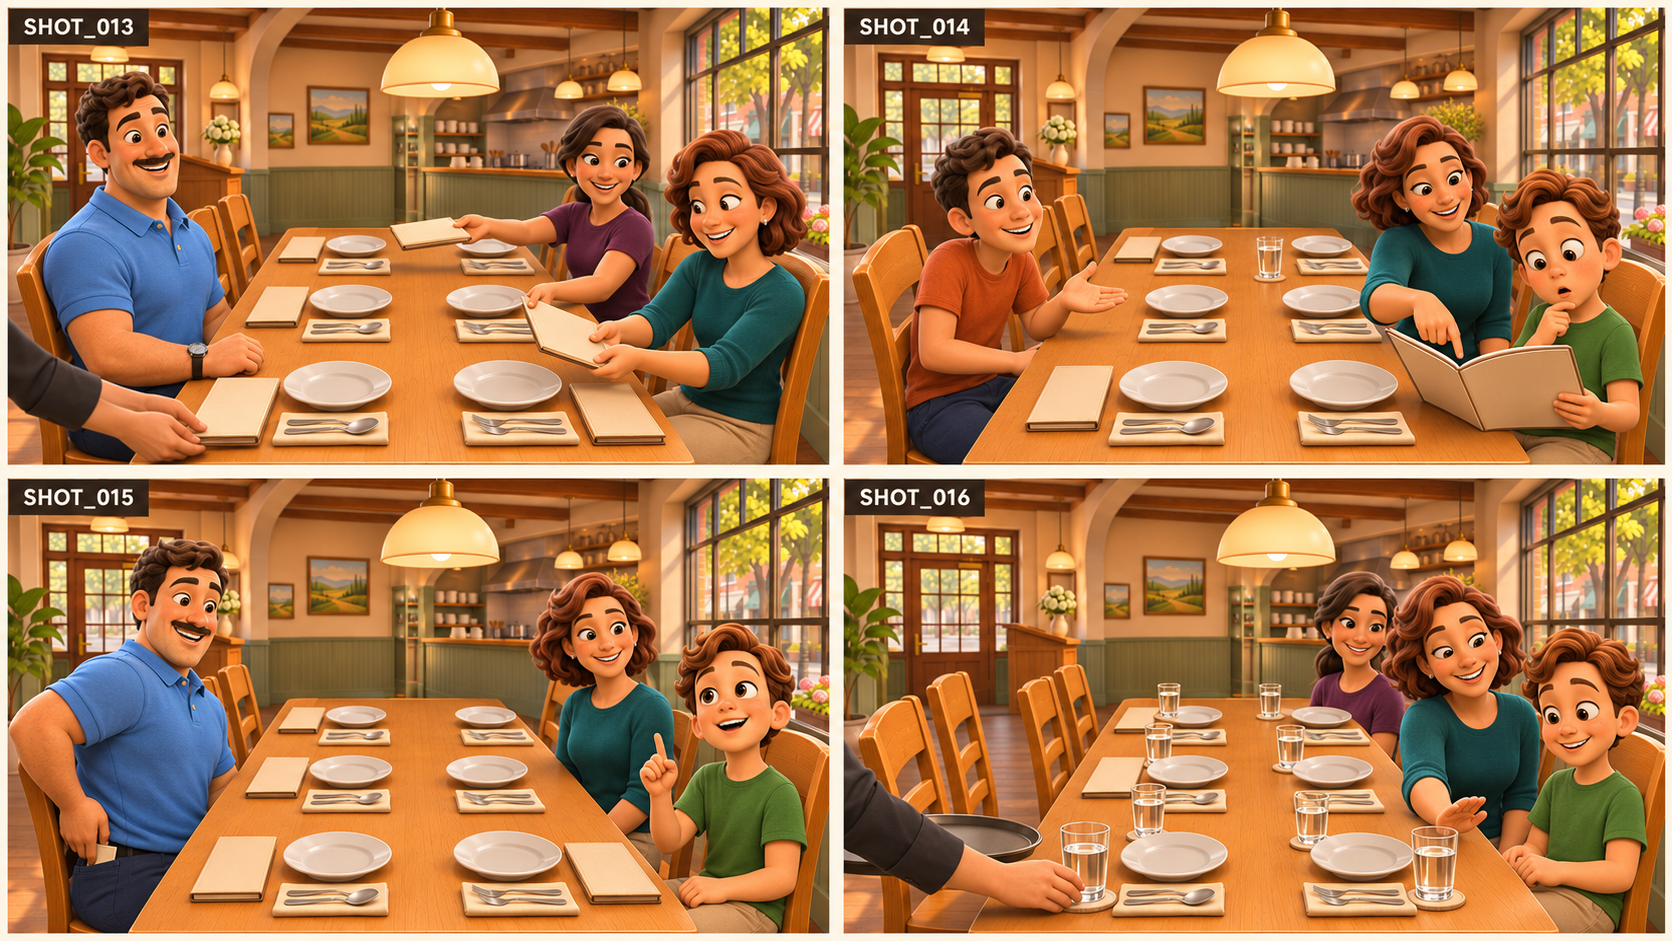
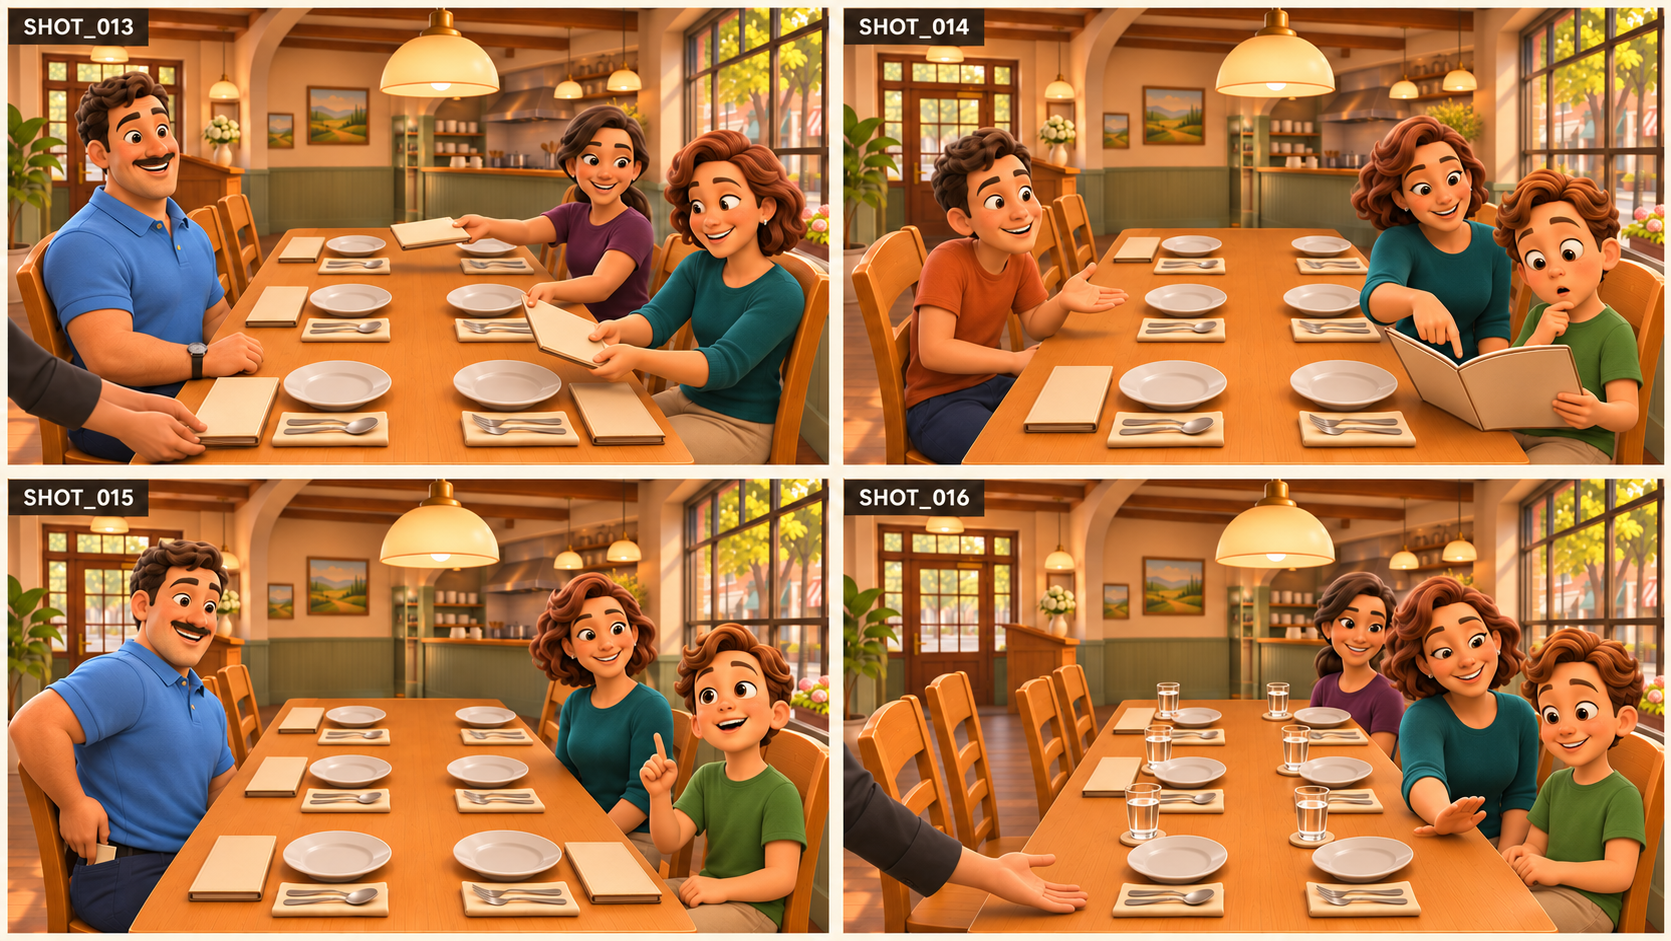
art: correct Episode 06 water service timing and six-glass inventory

diff --git a/docs/STORYBOARD_REPAIR_LOG.md b/docs/STORYBOARD_REPAIR_LOG.md
@@ -12,7 +12,8 @@ The active request is to fix the selected storyboard PNGs themselves. Video-prom
 | 09 / BOARD_15 | Remaining057 glove and058 paved-path defects corrected; all four labelled pot/saucer panels rechecked. | [Selected sheet](../Episode_09/assets/storyboards/BOARD_15.png) · [Correction record](../artwork_qa/records/ep09-board15-gloves-and-path-correction.json) |
 | 08 / BOARD_08 | SHOT_029 first-cube pointing corrected; socks, flat punched tabs and six-cube inventory retained. | [Selected sheet](../Episode_08/assets/storyboards/BOARD_08.png) · [Correction record](../artwork_qa/records/ep08-board08-first-cube-pointing-correction.json) |
 | 01 / BOARD_06 | SHOT_024 wrong-right-wrist watch removed; hidden canonical left wrist and all four labelled panels rechecked. | [Selected sheet](../Episode_01/assets/storyboards/BOARD_06.png) · [Correction record](../artwork_qa/records/ep01-board06-right-wrist-watch-correction.json) |
+| 06 / BOARD_04 | Removed premature014 water and both surplus016 glasses; exactly six waters first appear at016. | [Selected sheet](../Episode_06/assets/storyboards/BOARD_04.png) · [Correction record](../artwork_qa/records/ep06-board04-waters-correction.json) |
 
-Current QA inventory: **318 shots with major visual defects; 482 awaiting human review**. Selected repairs remove only the visually verified discrepancies recorded above. Creator acceptance and individual motion-frame approval remain pending. Other storyboard defects have not been declared fixed.
+Current QA inventory: **316 shots with major visual defects; 484 awaiting human review**. Selected repairs remove only the visually verified discrepancies recorded above. Creator acceptance and individual motion-frame approval remain pending. Other storyboard defects have not been declared fixed.
 
 Each selected edit preserves the prior image through its parent Git commit, retains the returned ImageGen source, updates all four panel evidence hashes and records what was visually confirmed. The Episode 01 printed-label audit is refreshed against the new pixels. Corrections are committed and pushed as checkpoints before requesting the next image.

diff --git a/CURRENT_PRODUCTION_STATUS.md b/CURRENT_PRODUCTION_STATUS.md
@@ -4,7 +4,7 @@ The [master audit](docs/AUDIT_EP01_EP10.md) records the current panel findings a
 
 ## Active storyboard repairs — 2026-11-20
 
-The creator has requested fixes to the actual storyboard images and withdrawn the video-prompt workaround. The [image repair log](docs/STORYBOARD_REPAIR_LOG.md) records selected PNG changes and remaining defects. Selected corrections and any remaining panel issues are recorded in the repair log; creator approval remains pending. Current QA records list 318 major visual discrepancies and 482 shots awaiting human review.
+The creator has requested fixes to the actual storyboard images and withdrawn the video-prompt workaround. The [image repair log](docs/STORYBOARD_REPAIR_LOG.md) records selected PNG changes and remaining defects. Selected corrections and any remaining panel issues are recorded in the repair log; creator approval remains pending. Current QA records list 316 major visual discrepancies and 484 shots awaiting human review.
 
 ## Audit branch validation — 2026-11-19
 
